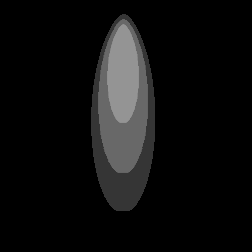
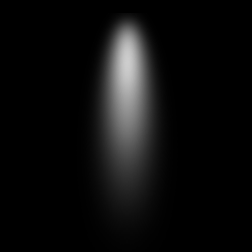
Added new lights

Changed region(s): [[0.3611, 0.0556, 0.6389, 0.8611]]

diff --git a/src/levels/Level1Good.cs b/src/levels/Level1Good.cs
@@ -34,20 +34,25 @@ namespace Vest.levels
             CLight(200, Color.White, G.Content.Load<Texture2D>("branches/branch1/l_round"), new Vector2(246, 205));
             CLight(200, Color.White, G.Content.Load<Texture2D>("branches/branch1/l_round"), new Vector2(836, 196));
             // Hallway Lights
-            CLight (91, Color.White, G.Content.Load<Texture2D> ("branches/branch1/l_roundUp"), new Vector2 (3646, 276 + 10));
-            CLight (91, Color.White, G.Content.Load<Texture2D> ("branches/branch1/l_roundUp"), new Vector2 (3483, 276 + 10));
-            CLight (91, Color.White, G.Content.Load<Texture2D> ("branches/branch1/l_roundUp"), new Vector2 (2781, 281 - 60));
-            CLight (91, Color.White, G.Content.Load<Texture2D> ("branches/branch1/l_roundUp"), new Vector2 (2625, 274 - 60));
-            CLight (91, Color.White, G.Content.Load<Texture2D> ("branches/branch1/l_roundUp"), new Vector2 (1342, 277 - 10));
-            CLight (91, Color.White, G.Content.Load<Texture2D> ("branches/branch1/l_roundUp"), new Vector2 (1185, 277 - 10));
+            CLight (91, Color.White, G.Content.Load<Texture2D> ("branches/branch1/l_roundUp"), new Vector2 (3646, 276 - 40));
+            CLight (91, Color.White, G.Content.Load<Texture2D> ("branches/branch1/l_roundUp"), new Vector2 (3483, 276 - 40));
+            CLight (91, Color.White, G.Content.Load<Texture2D> ("branches/branch1/l_roundUp"), new Vector2 (2781, 281 - 40));
+            CLight (91, Color.White, G.Content.Load<Texture2D> ("branches/branch1/l_roundUp"), new Vector2 (2625, 274 - 40));
+            CLight (91, Color.White, G.Content.Load<Texture2D> ("branches/branch1/l_roundUp"), new Vector2 (1342, 277 - 40));
+            CLight (91, Color.White, G.Content.Load<Texture2D> ("branches/branch1/l_roundUp"), new Vector2 (1185, 277 - 40));
             // Party Lights (Down)
             CLight (200, Color.Orange, G.Content.Load<Texture2D> ("branches/branch1/l_dir"), new Vector2 (1848, 83 + 200));
             CLight (200, Color.Red, G.Content.Load<Texture2D> ("branches/branch1/l_dir"), new Vector2 (1957, 83 + 200));
             CLight (200, Color.Red, G.Content.Load<Texture2D> ("branches/branch1/l_dir"), new Vector2 (2058, 83 + 200));
             CLight (200, Color.Orange, G.Content.Load<Texture2D> ("branches/branch1/l_dir"), new Vector2 (2111, 83 + 200));
             // Party Lights (Forward)
-            CLight (50, Color.Red, G.Content.Load<Texture2D> ("branches/branch1/l_roundDown"), new Vector2 (1906, 83));
-            CLight (50, Color.Orange, G.Content.Load<Texture2D> ("branches/branch1/l_roundDown"), new Vector2 (2005, 83));
+            CLight (50, Color.Red, G.Content.Load<Texture2D> ("branches/branch1/l_roundDown"), new Vector2 (1906, 103));
+            CLight (50, Color.Orange, G.Content.Load<Texture2D> ("branches/branch1/l_roundDown"), new Vector2 (2005 + 3, 103));
+            // Lamp
+            CLight (90, Color.White, G.Content.Load<Texture2D> ("branches/branch1/l_roundDown"), new Vector2 (3130, 390));
+            // Elevator Lights
+            CLight (91, Color.White, G.Content.Load<Texture2D> ("branches/branch1/l_roundUp"), new Vector2(3845, 262-68));
+            CLight (91, Color.White, G.Content.Load<Texture2D> ("branches/branch1/l_roundUp"), new Vector2 (4146, 262-68));
         
             elevatorTrigger = CTrigger(true, false, new Polygon(new Vector2[]
             {
